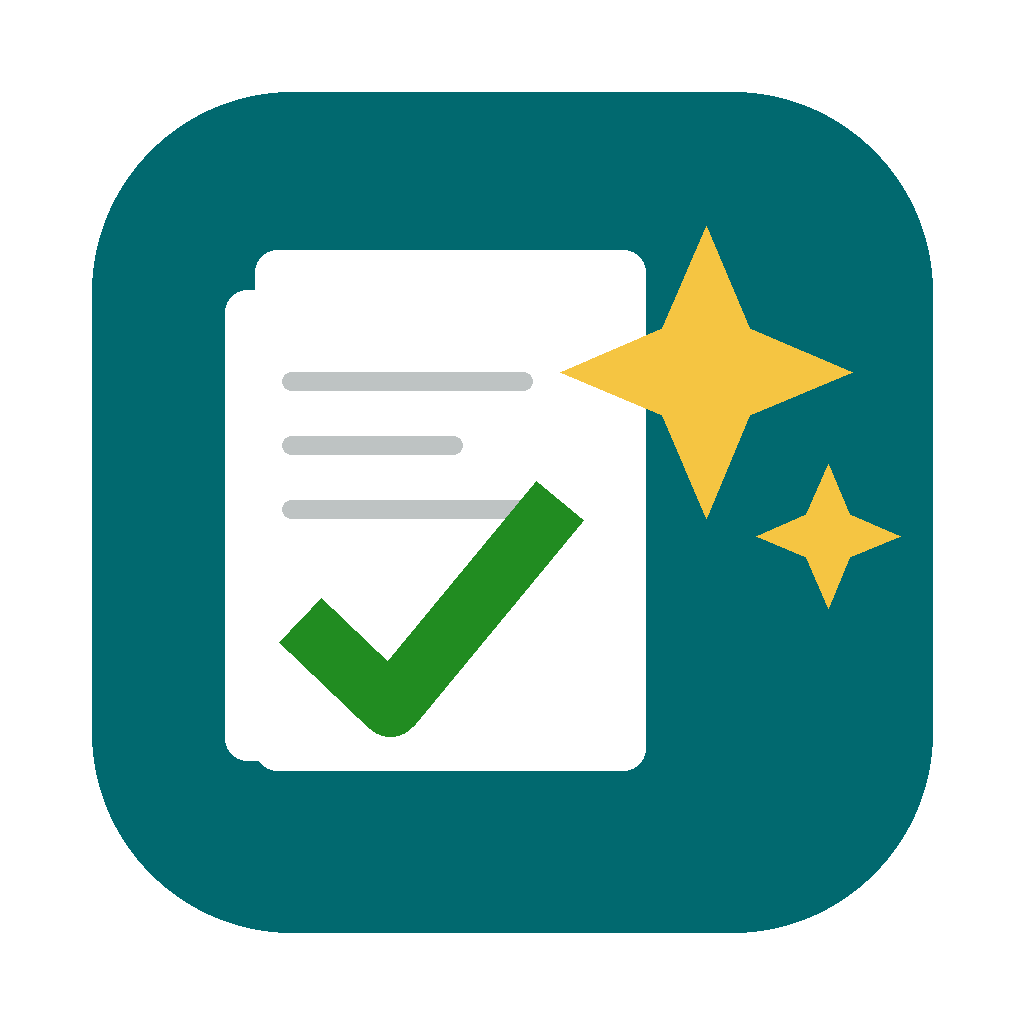
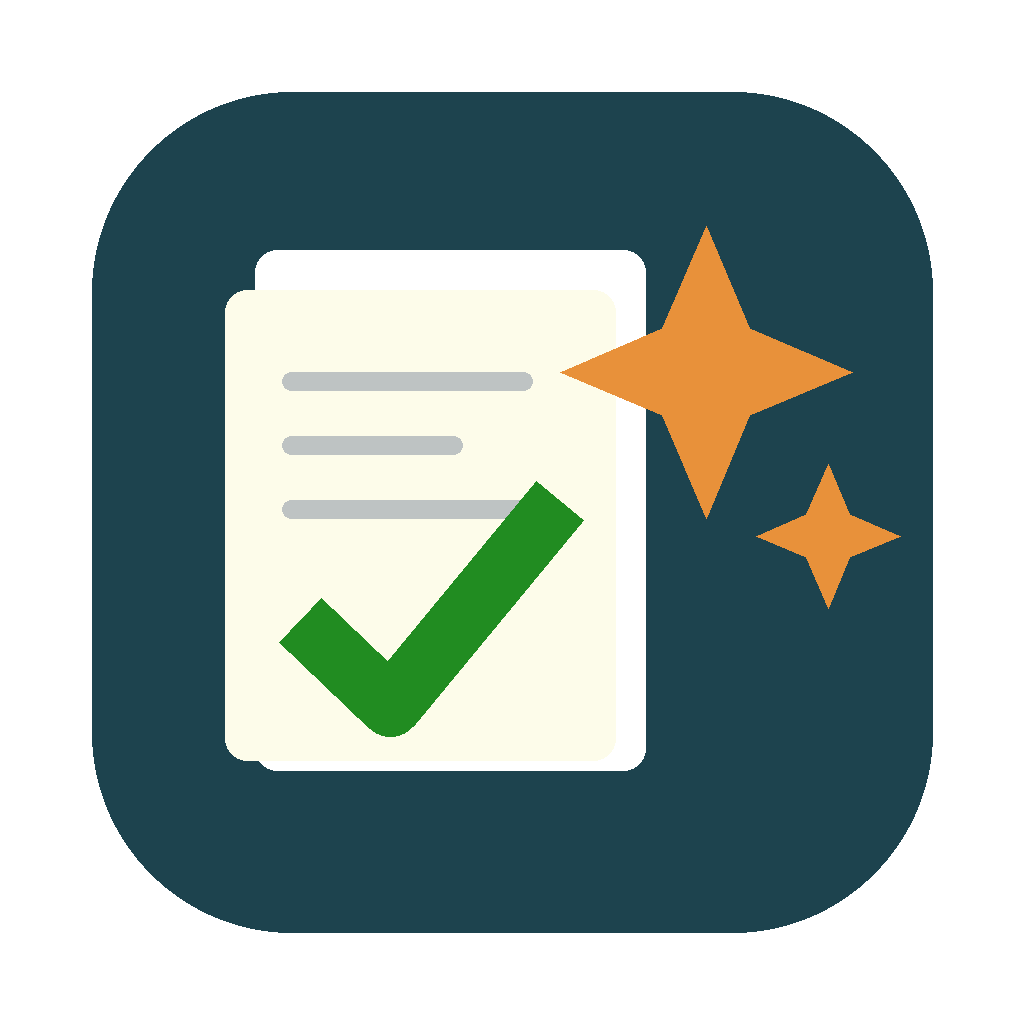
Apply the Ledger Labs palette to the chrome, and only the chrome
The name settled, which is the trigger DESIGN.md itself named: "brand palette is
provisional pending the product-name decision; do not invest in brand polish
until then." That note is now the actual palette, sourced from the brand kit.

Icon surface and app --primary become Deep Teal #1D434E, the sparkles become
Signal Orange #E8913A, and the sheet becomes Paper Cream #FDFCEA.

THE TICK GREEN DOES NOT MOVE, and Ledger Green #2D9148 is deliberately unused
even though it was the obvious substitute. DESIGN.md holds annotation colours as
content rather than theme: a mark must mean the same thing on screen and in the
exported PDF, and a brand refresh must never restate a reviewer's evidence. The
icon earns its recognition by showing the same green the marks do. Both the icon
script and DESIGN.md now say so in place, so it does not get "fixed" later.

Verified rather than asserted: a packaged build produces LedgerPDF.app with
CFBundleName/CFBundleDisplayName LedgerPDF and CFBundleIdentifier
com.ledgerlabs.ledgerpdf. Dev mode will keep saying "Electron" no matter what —
it runs node_modules/electron/dist/Electron.app, and app.setName cannot rename
another bundle's Info.plist.

diff --git a/app/src/renderer/src/styles.css b/app/src/renderer/src/styles.css
@@ -7,7 +7,7 @@
   --border: #d4d1ca;
   --text: #28251d;
   --muted: #7a7974;
-  --primary: #01696f;
+  --primary: #1d434e; /* Ledger Labs Deep Teal */
   --warning: #964219;
   --error: #a12c7b;
 

diff --git a/tools/launcher/make-icon.py b/tools/launcher/make-icon.py
@@ -9,7 +9,7 @@ icon actually lives:
 
   - **The sheet** says workpaper.
   - **The green review tick** is the domain symbol — a preparer reads it
-    instantly, and it is the same workpaper-green as appearance.MARK_COLORS.
+    instantly, and it is appearance.TICK_COLOR exactly — content, never rebranded.
     Dropping it would cost more recognition than any restyling could win back.
   - **The sparkle cluster** says an agent did it. It sits clear of the sheet in
     the corner rather than on top of it: overlapping versions merged into one
@@ -29,11 +29,18 @@ REPO = Path(__file__).resolve().parents[2]
 OUT = REPO / "app" / "resources" / "icon.png"
 S = 1024
 
-TEAL = (1, 105, 111, 255)          # DESIGN.md --primary
-GREEN = (33, 140, 33, 255)         # appearance.MARK_COLORS tick
-GOLD = (245, 197, 66, 255)         # reads as "spark" on teal; clear of the green
-PAPER = (255, 255, 255, 255)
+# Ledger Labs brand kit — _studio/Ledger Labs Brand Kit/tokens/palette.json.
+# The surface and the spark are CHROME and follow the brand.
+TEAL = (29, 67, 78, 255)           # Deep Teal #1D434E — "Primary surface"
+ORANGE = (232, 145, 58, 255)       # Signal Orange #E8913A — "Primary mark / accent"
+PAPER = (253, 252, 234, 255)       # Paper Cream #FDFCEA
 RULE = (190, 195, 195, 255)
+# The tick is CONTENT and does NOT follow the brand. It is appearance.TICK_COLOR
+# exactly — the green a preparer sees on the page and in the exported PDF. Ledger
+# Green (#2D9148) was the obvious brand substitute and is deliberately not used:
+# DESIGN.md holds annotation colours identical on screen and in the PDF, and the
+# icon earns its recognition by showing the same green the marks do.
+GREEN = (33, 140, 33, 255)         # == appearance.TICK_COLOR (0.13, 0.55, 0.13)
 
 
 def sparkle(d: ImageDraw.ImageDraw, cx: float, cy: float, r: float, fill) -> None:
@@ -69,8 +76,8 @@ def main() -> None:
     d.line([(300, 620), (390, 706), (560, 500)], fill=GREEN, width=62, joint="curve")
 
     # Kept off the sheet and in from the corner — both were crowding at 32px.
-    sparkle(d, 706, 372, 146, GOLD)
-    sparkle(d, 828, 536, 72, GOLD)
+    sparkle(d, 706, 372, 146, ORANGE)
+    sparkle(d, 828, 536, 72, ORANGE)
 
     OUT.parent.mkdir(parents=True, exist_ok=True)
     img.save(OUT)

diff --git a/DESIGN.md b/DESIGN.md
@@ -3,7 +3,7 @@ version: "alpha"
 name: "workpaper-tool-design"
 description: "Provisional visual identity for the workpaper binder desktop app. Functional rules are firm; brand tokens are placeholders until the naming/brand decision (see PROJECT.md open questions)."
 colors:
-  primary: "#01696F"
+  primary: "#1D434E"
   background: "#F7F6F2"
   surface: "#FFFFFF"
   border: "#D4D1CA"
@@ -59,7 +59,7 @@ components:
 
 ## Colors
 
-Muted, low-saturation workspace so the *document* is the loudest thing on screen. One accent (primary teal) for selection and primary actions only. Semantic colors reserved for meaning: success = tie-out/valid, warning = unverified/needs attention, error = broken link/failed export. **Annotation colors (tick marks, tapes) are user-meaningful content, not UI theme** — they must stay identical on screen and in the exported PDF. Brand palette is provisional pending the product-name decision; do not invest in brand polish until then.
+Muted, low-saturation workspace so the *document* is the loudest thing on screen. One accent (primary teal) for selection and primary actions only. Semantic colors reserved for meaning: success = tie-out/valid, warning = unverified/needs attention, error = broken link/failed export. **Annotation colors (tick marks, tapes) are user-meaningful content, not UI theme** — they must stay identical on screen and in the exported PDF. Brand palette is the **Ledger Labs kit** as of 2026-08-05, once the name settled on LedgerPDF: primary surface Deep Teal `#1D434E`, accent Signal Orange `#E8913A`, Paper Cream `#FDFCEA` (`~/LedgerLabs/_studio/Ledger Labs Brand Kit/tokens/palette.json` is the source). **The brand stops at the chrome.** Tick green stays `appearance.TICK_COLOR` and Ledger Green `#2D9148` is deliberately unused, because a mark means the same thing on screen and in the exported PDF and a rebrand must never restate it.
 
 ## Typography
 
